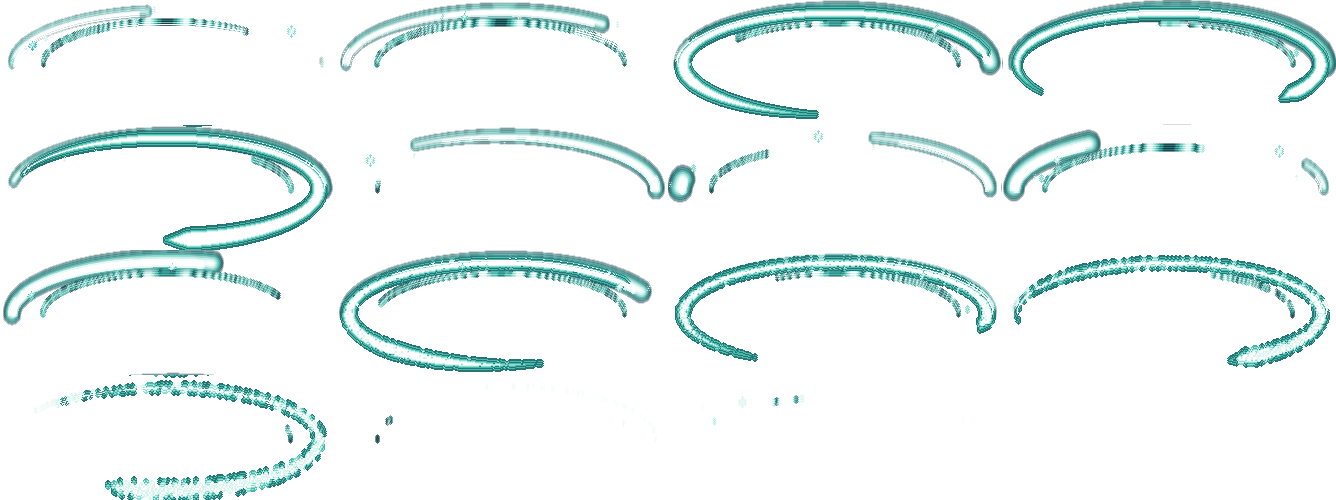
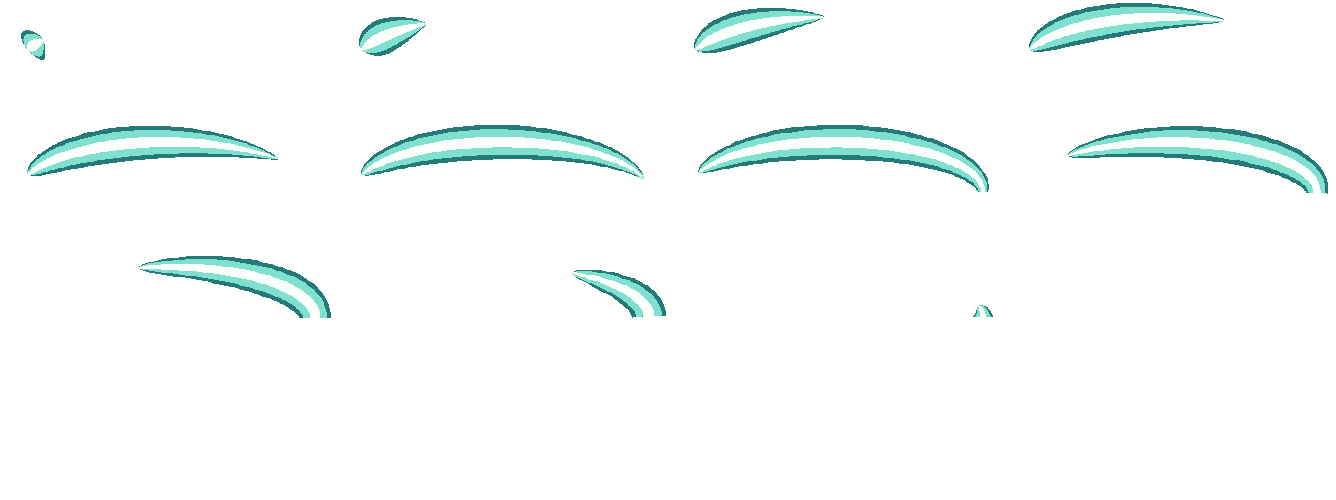
Làm lại đòn C: elip dày-mỏng tan dần, kiếm vung theo vệt
Claude-Session: https://claude.ai/code/session_01MYwTvK6dULdzXHFPeBSgyd

diff --git a/game/index.html b/game/index.html
@@ -1693,7 +1693,7 @@ CHM.hero_nam.runStride=16;CHM.hero_nu.runStride=16;
    WSOCK[giới]["x,y" của khung]: [chuôi x, chuôi y (toạ độ ô 160x128), góc độ, 'b' sau thân | 'f' trước thân]
    WAURA[mốc]: [khung rộng, cao, số cột, số khung, fps, lệch x, lệch y so với chuôi] (tạo trên cây đại kiếm dài 56) */
 const WPN={"thuong1":[96,10,40,3,56],"thanhphong_nam":[38,5,10,2,28],"thanhphong_nu":[42,5,10,2,32],"thaia":[40,10,5,4,34],"tudien":[40,8,5,3,33],"hanthiet":[64,15,8,8,56],"tramyeu":[64,14,9,7,52],"thanhphong_nam_f":[36,11,6,5,28],"thanhphong_nu_f":[44,11,10,5,32]};
-const WSOCK={"nam":{"0,0":[91.7,77.7,32.9,"b"],"0,128":[102.2,77.0,57.4,"b"],"0,256":[96.9,42.3,-55.0,"b"],"160,0":[91.4,78.2,30.1,"b"],"160,256":[98.9,37.3,-40.0,"b"],"320,0":[91.1,78.7,30.1,"b"],"320,128":[71.9,70.0,166.9,"b"],"320,256":[108.9,50.3,15.0,"b"],"480,0":[90.6,77.9,32.3,"b"],"480,256":[112.4,58.3,0.0,"b"],"640,0":[94.6,80.0,30.5,"b"],"640,256":[109.4,63.3,25.0,"b"],"800,0":[94.6,79.9,32.7,"b"],"800,256":[107.4,65.3,35.0,"b"],"960,0":[99.7,80.8,33.7,"b"],"960,256":[107.4,65.3,35.0,"b"],"1120,0":[95.7,79.6,25.0,"b"],"1120,128":[90.6,77.9,31.4,"f"],"1120,256":[104.4,70.3,65.0,"b"],"1280,0":[95.6,79.9,32.0,"b"],"1280,128":[90.6,77.4,29.0,"f"],"1280,256":[111.0,60.5,6.7,"b"],"1440,0":[95.7,79.7,34.5,"b"],"1440,128":[90.8,77.7,30.0,"f"],"1440,256":[112,53,-38.8,"b"],"1600,0":[99.7,80.8,33.7,"b"],"1600,128":[91.5,78.1,29.1,"f"],"1600,256":[106.4,41.3,-60.0,"b"],"1760,0":[100.6,78.9,32.5,"b"],"1760,128":[92.5,79.0,32.0,"b"],"1760,256":[110.3,40.0,-47.7,"b"],"1920,128":[97.2,94.6,24.0,"b"],"1920,256":[109.9,51.3,-20.0,"b"],"2080,128":[118,111,0.0,"b"],"2080,256":[109.9,55.3,-5.0,"b"],"2240,0":[107,49,-13.1,"b"],"2240,128":[110,112,0.0,"f"],"2240,256":[103.4,71.3,45.0,"b"],"2400,0":[113.4,71.0,46.8,"b"],"2400,256":[112.9,57.3,0.0,"b"],"2560,256":[110.9,51.3,-25.0,"b"],"2720,256":[111.9,54.3,-5.0,"b"],"2880,256":[112.9,58.3,5.0,"b"],"3040,256":[107.9,67.3,35.0,"b"],"3200,256":[103.4,71.3,45.0,"b"],"3360,256":[115.4,57.3,0.0,"b"],"3520,256":[111.4,63.3,25.0,"b"],"3680,256":[108.0,66.3,42.3,"b"]},"nu":{"0,0":[89.7,74.8,34.2,"b"],"0,128":[102.1,76.4,57.4,"b"],"0,256":[95.6,44.0,-55.0,"b"],"160,0":[91.6,72.8,26.6,"b"],"160,256":[96,38,-28.3,"b"],"320,0":[92.3,72.6,16.7,"b"],"320,128":[62.7,72.5,164.1,"b"],"320,256":[106.4,52.0,15.0,"b"],"480,0":[93.1,73.1,13.1,"b"],"480,256":[107.4,61.0,8.0,"b"],"640,0":[93.7,76.7,35.3,"b"],"640,256":[107.4,65.0,25.0,"b"],"800,0":[93.7,76.7,35.3,"b"],"800,256":[107.3,67.0,35.0,"b"],"960,0":[94.7,75.7,34.8,"b"],"960,256":[101,65,37.6,"b"],"1120,0":[94.8,72.6,36.5,"b"],"1120,128":[90.7,74.7,35.3,"b"],"1120,256":[104.3,72.0,65.0,"b"],"1280,0":[94.8,76.6,36.5,"b"],"1280,128":[88.3,72.5,22.2,"b"],"1280,256":[107.1,63.1,13.6,"b"],"1440,0":[94.8,76.6,36.5,"b"],"1440,128":[90.5,74.2,27.5,"b"],"1440,256":[110.0,48.7,-41.8,"b"],"1600,0":[93.5,76.0,33.7,"b"],"1600,128":[91.3,75.4,32.0,"b"],"1600,256":[105.5,43.0,-60.0,"b"],"1760,0":[94.8,72.6,36.5,"b"],"1760,128":[90.7,74.7,35.3,"b"],"1760,256":[108.7,46.3,-45.0,"b"],"1920,128":[103.1,92.9,15.6,"b"],"1920,256":[109.4,53.0,-20.0,"b"],"2080,128":[106,111,-3.9,"f"],"2080,256":[109.0,58.7,4.2,"b"],"2240,0":[112.2,51.1,-16.5,"b"],"2240,128":[113,113,-4.2,"f"],"2240,256":[102.5,73.0,45.0,"b"],"2400,0":[111.2,72.1,46.3,"b"],"2400,256":[110.5,59.0,0.0,"b"],"2560,256":[110.5,53.0,-25.0,"b"],"2720,256":[109.5,56.0,-5.0,"b"],"2880,256":[110.5,60.0,5.0,"b"],"3040,256":[107.4,69.0,35.0,"b"],"3200,256":[102.5,73.0,45.0,"b"],"3360,256":[113.3,59.0,0.0,"b"],"3520,256":[101,61,31.0,"b"],"3680,256":[101.5,69.0,45.0,"b"]}};
+const WSOCK={"nam":{"0,0":[91.7,77.7,32.9,"b"],"0,128":[102.2,77.0,57.4,"b"],"0,256":[96.9,42.3,-55.0,"b"],"160,0":[91.4,78.2,30.1,"b"],"160,256":[98.9,37.3,-40.0,"b"],"320,0":[91.1,78.7,30.1,"b"],"320,128":[71.9,70.0,166.9,"b"],"320,256":[108.9,50.3,15.0,"b"],"480,0":[90.6,77.9,32.3,"b"],"480,256":[112.4,58.3,0.0,"b"],"640,0":[94.6,80.0,30.5,"b"],"640,256":[109.4,63.3,25.0,"b"],"800,0":[94.6,79.9,32.7,"b"],"800,256":[107.4,65.3,35.0,"b"],"960,0":[99.7,80.8,33.7,"b"],"960,256":[107.4,65.3,35.0,"b"],"1120,0":[95.7,79.6,25.0,"b"],"1120,128":[90.6,77.9,31.4,"f"],"1120,256":[104.4,70.3,65.0,"b"],"1280,0":[95.6,79.9,32.0,"b"],"1280,128":[90.6,77.4,29.0,"f"],"1280,256":[111.0,60.5,6.7,"b"],"1440,0":[95.7,79.7,34.5,"b"],"1440,128":[90.8,77.7,30.0,"f"],"1440,256":[112,53,-38.8,"b"],"1600,0":[99.7,80.8,33.7,"b"],"1600,128":[91.5,78.1,29.1,"f"],"1600,256":[106.4,41.3,-60.0,"b"],"1760,0":[100.6,78.9,32.5,"b"],"1760,128":[92.5,79.0,32.0,"b"],"1760,256":[110.3,40.0,-47.7,"b"],"1920,128":[97.2,94.6,24.0,"b"],"1920,256":[109.9,51.3,-20.0,"b"],"2080,128":[118,111,0.0,"b"],"2080,256":[109.9,55.3,-5.0,"b"],"2240,0":[107,49,-13.1,"b"],"2240,128":[110,112,0.0,"f"],"2240,256":[103.4,71.3,-150,"b"],"2400,0":[113.4,71.0,46.8,"b"],"2400,256":[112.9,57.3,-115,"b"],"2560,256":[110.9,51.3,-75,"b"],"2720,256":[111.9,54.3,-35,"b"],"2880,256":[112.9,58.3,0,"b"],"3040,256":[107.9,67.3,30,"b"],"3200,256":[103.4,71.3,52,"b"],"3360,256":[115.4,57.3,62,"b"],"3520,256":[111.4,63.3,50,"b"],"3680,256":[108.0,66.3,38,"b"]},"nu":{"0,0":[89.7,74.8,34.2,"b"],"0,128":[102.1,76.4,57.4,"b"],"0,256":[95.6,44.0,-55.0,"b"],"160,0":[91.6,72.8,26.6,"b"],"160,256":[96,38,-28.3,"b"],"320,0":[92.3,72.6,16.7,"b"],"320,128":[62.7,72.5,164.1,"b"],"320,256":[106.4,52.0,15.0,"b"],"480,0":[93.1,73.1,13.1,"b"],"480,256":[107.4,61.0,8.0,"b"],"640,0":[93.7,76.7,35.3,"b"],"640,256":[107.4,65.0,25.0,"b"],"800,0":[93.7,76.7,35.3,"b"],"800,256":[107.3,67.0,35.0,"b"],"960,0":[94.7,75.7,34.8,"b"],"960,256":[101,65,37.6,"b"],"1120,0":[94.8,72.6,36.5,"b"],"1120,128":[90.7,74.7,35.3,"b"],"1120,256":[104.3,72.0,65.0,"b"],"1280,0":[94.8,76.6,36.5,"b"],"1280,128":[88.3,72.5,22.2,"b"],"1280,256":[107.1,63.1,13.6,"b"],"1440,0":[94.8,76.6,36.5,"b"],"1440,128":[90.5,74.2,27.5,"b"],"1440,256":[110.0,48.7,-41.8,"b"],"1600,0":[93.5,76.0,33.7,"b"],"1600,128":[91.3,75.4,32.0,"b"],"1600,256":[105.5,43.0,-60.0,"b"],"1760,0":[94.8,72.6,36.5,"b"],"1760,128":[90.7,74.7,35.3,"b"],"1760,256":[108.7,46.3,-45.0,"b"],"1920,128":[103.1,92.9,15.6,"b"],"1920,256":[109.4,53.0,-20.0,"b"],"2080,128":[106,111,-3.9,"f"],"2080,256":[109.0,58.7,4.2,"b"],"2240,0":[112.2,51.1,-16.5,"b"],"2240,128":[113,113,-4.2,"f"],"2240,256":[102.5,73.0,-150,"b"],"2400,0":[111.2,72.1,46.3,"b"],"2400,256":[110.5,59.0,-115,"b"],"2560,256":[110.5,53.0,-75,"b"],"2720,256":[109.5,56.0,-35,"b"],"2880,256":[110.5,60.0,0,"b"],"3040,256":[107.4,69.0,30,"b"],"3200,256":[102.5,73.0,52,"b"],"3360,256":[113.3,59.0,62,"b"],"3520,256":[101,61,50,"b"],"3680,256":[101.5,69.0,38,"b"]}};
 const WAURA={"3":[39,15,4,16,16,17,-11],"6":[39,15,4,16,16,17,-11],"9":[39,15,4,16,16,17,-11],"12":[46,28,4,16,16,15,-16]};
 const WIMG={},AIMG={};for(const n in WPN){const i=new Image();i.src='assets/wpn/'+n+'.png';WIMG[n]=i}for(const k in WAURA){const i=new Image();i.src='assets/vfx/aura_'+k+'.png';AIMG[k]=i}
 const WART={'Thanh Phong Kiếm':'thanhphong','Hàn Thiết Kiếm':'hanthiet','Long Tuyền Kiếm':'thanhphong','Tử Điện Kiếm':'tudien','Trảm Yêu Kiếm':'tramyeu','Thái A Kiếm':'thaia'};

diff --git a/cong_cu/claude/c_ellipse.py b/cong_cu/claude/c_ellipse.py
@@ -1,0 +1,41 @@
+"""Dựng sheet elip đòn C (24/11): nhát chém cong dày-mỏng, vẽ dần rồi tan từ đuôi. Ra k5c_behind.png / k5c_front.png.
+Giữ kích thước ô cũ (334x125 / 334x121, 15 khung, 4 cột) để không đổi SPX."""
+import math,random
+from PIL import Image,ImageDraw
+V='game/assets/vfx/'
+N=15;CW=334;COLS=4
+RX,RY=148,50
+TH=(('o',34,(36,122,120,255)),('b',25,(128,224,208,255)),('c',10,(250,255,252,255)))   # viền / thân / lõi (bảng màu A-B)
+def ang(u):return math.radians(200+330*u)
+def pts(t0,t1,n=70):return [t0+(t1-t0)*i/n for i in range(n+1)]
+def sheet(name,CH,py,front):
+    cy=py-40
+    out=Image.new('RGBA',(CW*COLS,CH*((N+COLS-1)//COLS)),(0,0,0,0))
+    random.seed(7 if front else 3)
+    for f in range(N):
+        p=(f+0.5)/N;head=min(1,p*1.2);tail=head*min(1,max(0,(p-0.42)/0.5))**1.1
+        im=Image.new('RGBA',(CW,CH),(0,0,0,0));d=ImageDraw.Draw(im)
+        if head-tail>0.02:
+            for key,th,col in TH:
+                us=pts(tail,head);P=[]
+                for u in us:
+                    s=(u-tail)/max(1e-6,head-tail)
+                    w=th*(max(0.0,math.sin(math.pi*(min(1.0,s)**0.8)))**0.75)
+                    if key!='o':w*=1.0
+                    a=ang(u);x=CW/2+RX*math.cos(a);y=cy+RY*math.sin(a)
+                    nx,ny=math.cos(a)/RX,math.sin(a)/RY;nl=math.hypot(nx,ny);nx/=nl;ny/=nl
+                    P.append((u,x,y,nx*w/2,ny*w/2))
+                for i in range(len(P)-1):
+                    u,x,y,dx,dy=P[i];u2,x2,y2,dx2,dy2=P[i+1]
+                    isfront=math.sin(ang((u+u2)/2))>0
+                    if isfront!=front:continue
+                    d.polygon([(x+dx,y+dy),(x2+dx2,y2+dy2),(x2-dx2,y2-dy2),(x-dx,y-dy)],fill=col)
+            if front:   # vài hạt sáng gần đầu nhát chém
+                a=ang(head);hx=CW/2+RX*math.cos(a);hy=cy+RY*math.sin(a)
+                if math.sin(a)>0:
+                    for _ in range(7):
+                        d.point((int(hx+random.uniform(-16,16)),int(hy+random.uniform(-12,12))),fill=(250,255,252,255))
+        out.paste(im,((f%COLS)*CW,(f//COLS)*CH))
+    out.save(V+name)
+sheet('k5c_behind.png',125,107,False)
+sheet('k5c_front.png',121,99,True)

diff --git a/CLAUDE.md b/CLAUDE.md
@@ -141,3 +141,7 @@ Chủ game xem các bản làm lại (khung 7/7/12 theo guide, chuỗi Hovl, VFX
 - `wx_slash` (đòn A) đổi sang bảng màu của `zs2` (đòn B), bớt đậm (gốc: `nguon/vfx_goc/wx_slash_goc.png`). Elip C (`k5c_behind/front`) dày thêm ~6px bằng chồng bản dịch ±1..3px trong từng ô (gốc: `nguon/vfx_goc/k5c_*_goc.png`).
 - Lớp tay `hero_nam_hand.png` và `hero_nam_hg_hand.png`: thêm bàn tay ở ô `1280,128` và `1440,128` (chép từ ô `1120,128`). Hai file này vì thế khác Master khóa (chủ game đã cho vẽ thêm tay). `hero_*_ns.png`, `hero_*.png`, `hero_nu_hand.png` vẫn trùng hash Master.
 - Kiểm đối chiếu Master: sheet thân không kiếm của Nam/Nữ trùng Master. Nữ Huyền Giáp: không phát hiện mất cổ so với Master (xem mục trên). Kiếm dùng chung bản nữ dài 32 so với kiếm Master của Nam ~28.
+
+## Đòn C làm lại (24/11, chủ game duyệt phác thảo)
+- Elip `k5c_behind/front` dựng lại bằng `cong_cu/claude/c_ellipse.py` (không PixelLab): nhát cong dày giữa-mỏng đuôi, vẽ dần từ sau lưng qua trước xuống dưới, tan từ đuôi (3 lớp màu bảng A/B). Giữ kích thước ô, 15 khung. Bản dilation cũ không còn.
+- Góc kiếm 10 khung C trong `WSOCK` (khóa `2240..3680,256`, cả nam/nữ) đổi thành -150,-115,-75,-35,0,30,52,62,50,38: kiếm vung từ sau-trên đầu xuống trước theo vệt. Thân nhân vật không đổi (Master).
